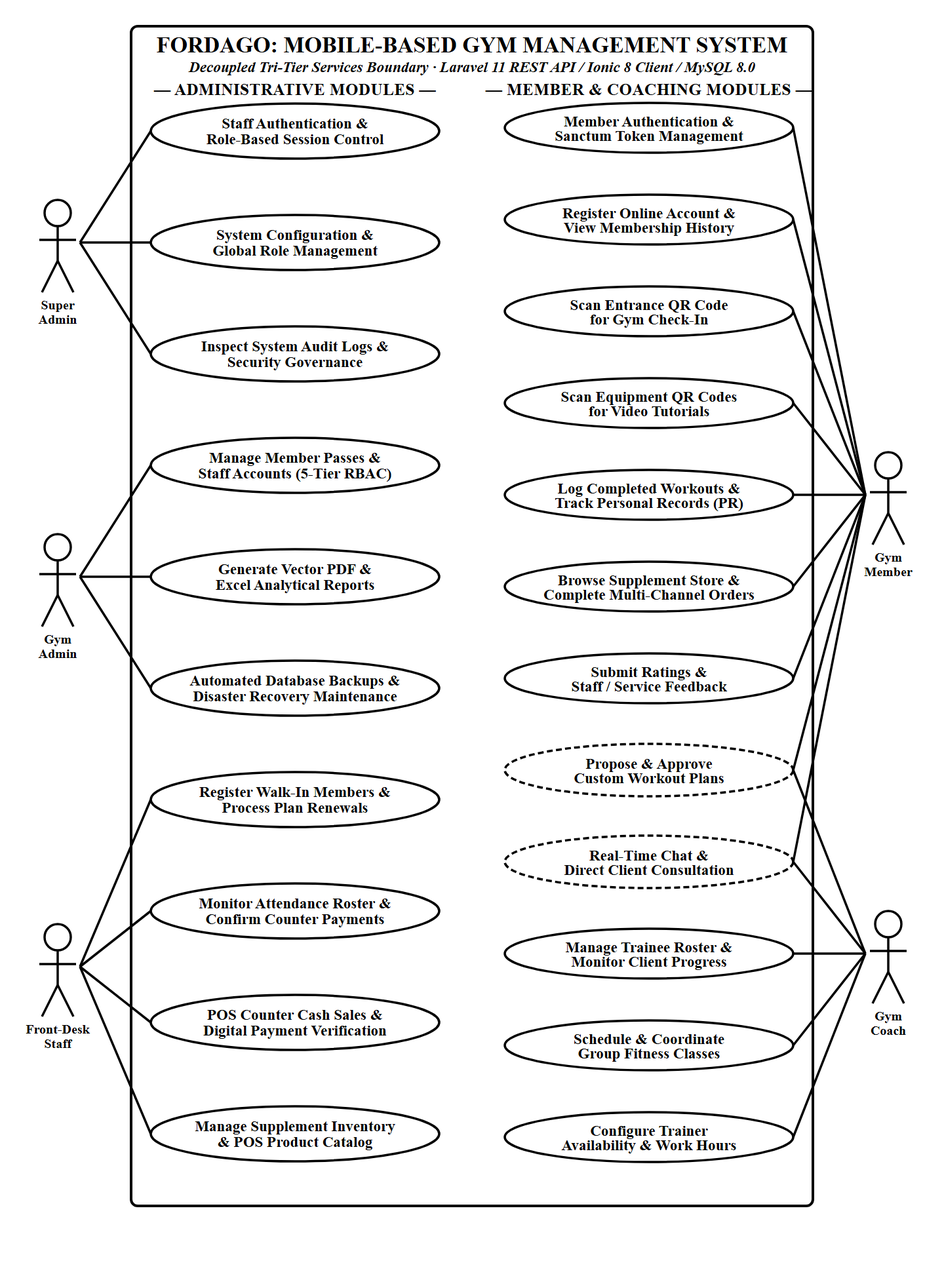
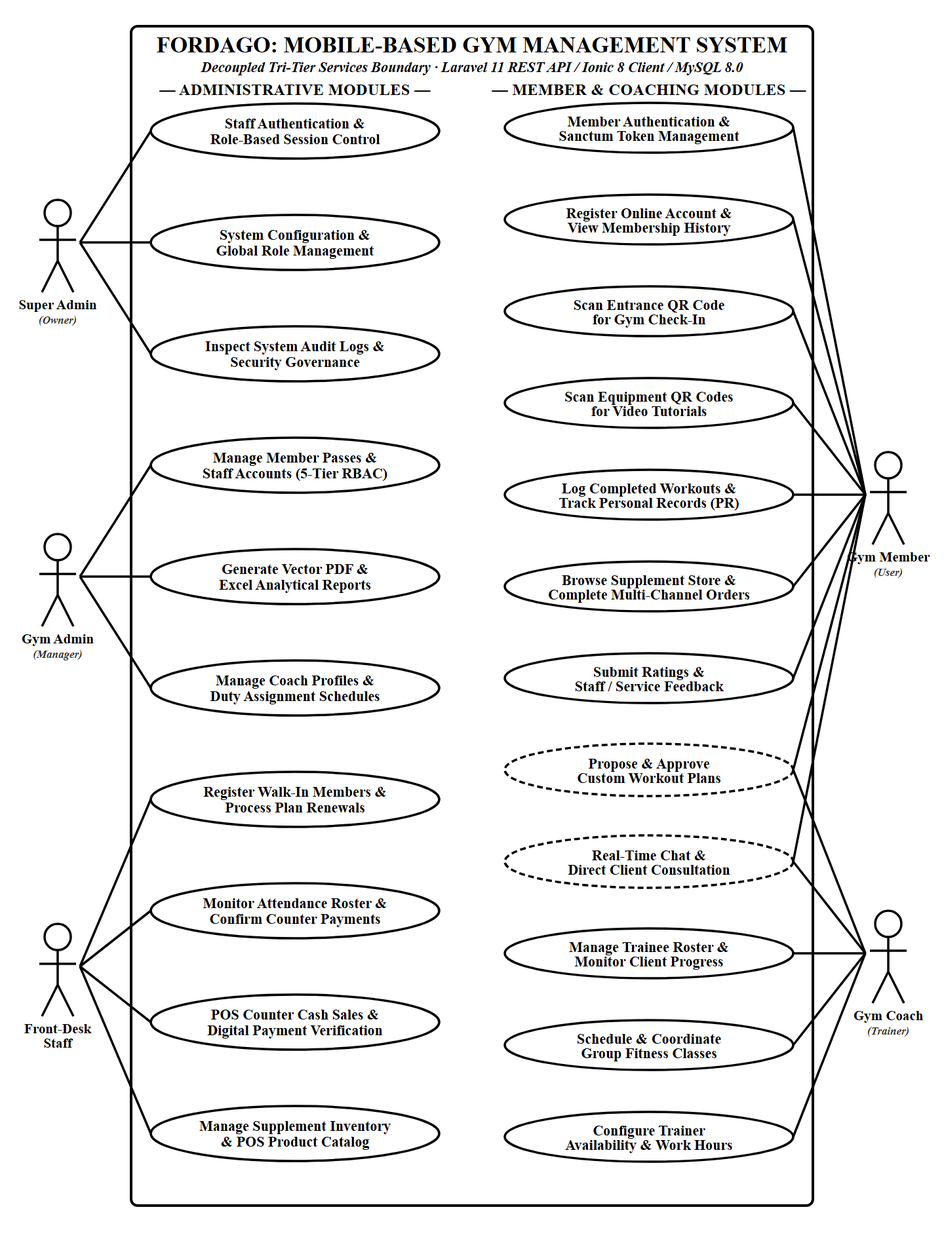
docs: detail 3-tier admin roles in Chapter 3, insert Table 1 RBAC matrix, and sync Figure 6 5-actor diagram

diff --git a/docs/chapters/chapter-3.md b/docs/chapters/chapter-3.md
@@ -70,33 +70,135 @@ MySQL 8.0 relational database management system enforcing strict referential int
 
 Role-Based Access Control and System Actors
 
-The FordaGO system implements a rigorous Role-Based Access Control (RBAC) architecture designed to enforce the principle of least privilege across all mobile and web interfaces. Access rights and protected API routes are strictly validated via Laravel Sanctum bearer tokens and role-checking middleware. The system classifies authenticated users into five distinct operational roles across three functional tiers:
+To maintain strict operational accountability, safeguard sensitive financial records, and prevent unauthorized privilege escalation, FordaGO implements a multi-tier Role-Based Access Control (RBAC) architecture grounded in the Principle of Least Privilege (PoLP) and Separation of Duties (SoD) in alignment with ISO/IEC 27001 data security guidelines. Rather than treating administrative personnel as a homogeneous group, the system implements defense-in-depth access governance across three architectural strata:
+1. **Database Persistence Layer:** Schema-level role partitioning is enforced by the `users.role` MySQL ENUM column (`'super_admin'`, `'admin'`, `'employee'`, `'coach'`, `'user'`), ensuring that role identities are immutable across foreign-key relationships.
+2. **Backend Application Layer:** All incoming HTTP requests require a cryptographically signed Laravel Sanctum bearer token. Every protected API route is wrapped in custom role-validation middleware (`EnsureUserHasRole`), which verifies the authenticated token's role against permissible parameters (`middleware('role:admin,super_admin')` vs `middleware('role:admin,super_admin,employee')`). Any unauthorized route access immediately terminates with an `HTTP 403 Forbidden` response and generates a security event in the audit trail.
+3. **Frontend Presentation Layer:** Angular standalone route guards (`adminGuard`, `managerGuard`, `memberGuard`, `authGuard`) and dynamic template structural directives (`*ngIf="!isEmployee"`, `*ngIf="canManageCoaches"`, `*ngIf="isSuperAdmin"`) dynamically adapt the interface, suppressing restricted navigation tabs, control actions, and management buttons.
 
-1. Super Administrator (super_admin):
+The system formally classifies all authenticated stakeholders into five (5) distinct operational roles across three (3) functional tiers:
 
-Represents the highest tier of administrative and governance authority. The Super Administrator possesses unrestricted system access, including managing Administrator and Employee credentials, monitoring cross-tier system activity, configuring system settings, and overseeing automated database backup routines
+### Administrative Governance Tier (Super Admin, Gym Admin, Front-Desk Staff)
 
-2. Gym Administrator (admin):
+To eliminate ambiguity during institutional defense and illustrate clear business governance, the three administrative roles are strictly differentiated by business ownership, managerial authority, and front-line operational duties:
 
-Functions as the primary operational manager for daily gym business. The Administrator manages member accounts and coach profiles, oversees supplement product catalog inventory, approves counter orders and validates cash payment receipts, publishes announcements, and generates dynamic financial and attendance reports. Administrators are restricted from altering system-level server configurations or deleting Super Administrator accounts.
+#### 1. Super Administrator (`super_admin` — Gym Proprietor / Executive Authority):
+* **Organizational Role & Business Domain:** Represents the executive gym proprietor and system licensee. The Super Administrator holds supreme, unrestricted authority over the digital infrastructure and strategic configuration of the enterprise.
+* **Distinct Capabilities & Responsibilities:**
+  * **Global Role Provisioning:** The sole authority capable of creating, assigning roles to, updating, or deleting Gym Administrator (`admin`) and Front-Desk Employee (`employee`) accounts.
+  * **System Configuration & Security Governance:** Manages global application settings, payment gateway integration credentials, and business operating rules.
+  * **Unrestricted Security Audit Inspection:** Full read-only oversight of the system audit trail (`activity_logs`), inspecting user IP addresses, session logins/logouts, failed authentication attempts, and data modification events.
+  * **Database Disaster Recovery:** Oversees automated database backup jobs, manual SQL snapshot downloads, and database migration routines.
+* **Operational Restrictions:** None. Possesses root executive authority across the entire platform.
 
-3. Front-Desk Employee (employee):
+#### 2. Gym Administrator (`admin` — Branch Manager / Operational Authority):
+* **Organizational Role & Business Domain:** Functions as the on-site general manager of AFFORDA Gym – Cabiao Branch, overseeing day-to-day business viability, staff supervision, and customer satisfaction without technical server access.
+* **Distinct Capabilities & Responsibilities:**
+  * **Coach Account Lifecycle Management:** Sole administrative manager authorized to onboard, verify credentials, edit rates, and manage schedules for Accredited Gym Coaches via `/api/admin/coaches`.
+  * **Executive Financial Analytics & Vector Reporting:** Full access to the Management Reporting Engine (`/reports/admin/*`), generating dynamic daily, weekly, monthly, and yearly vector PDF audit documents and Excel spreadsheets covering gross revenue, attendance turnover, supplement retail sales, and inventory valuation.
+  * **Member Account Overrides & Pass Approvals:** Authorizes offline counter cash payments, manually overrides membership plan status (e.g., activating 30-day Premium Passes upon receipt verification), and resolves customer disputes.
+  * **Retail Inventory Oversight:** Manages the supplement catalog, adjusting retail selling prices, entering wholesale supplier costs, and monitoring profit margins.
+  * **Staff Account Management:** Authorized to create and manage Front-Desk Employee (`employee`) accounts.
+* **Operational Restrictions & Boundaries:**
+  * Strictly **prohibited from creating, editing, or deleting Super Administrator accounts**.
+  * Strictly **restricted from accessing server-level environment configurations (`.env`)** or database disaster recovery routines.
+  * Strictly **prohibited from truncating or altering system security audit logs**.
 
-Receptionist and counter staff operating at the gym front desk. Employees are granted operational access to the digital optical QR camera scanner for entrance attendance check-in, walk-in member registration, pass validity lookup, and point-of-sale (POS) counter supplement sales. To safeguard financial and administrative integrity, Employees are strictly restricted from accessing financial revenue audit reports, viewing profit analytics, or modifying administrative staff accounts.
+#### 3. Front-Desk Employee (`employee` — Receptionist / Frontline Cashier):
+* **Organizational Role & Business Domain:** Frontline customer-facing staff stationed at the gym entrance reception desk, dedicated to rapid ingress validation, retail transactions, and walk-in customer intake.
+* **Distinct Capabilities & Responsibilities:**
+  * **Optical QR Entrance Check-In:** Operates the counter tablet kiosk camera scanner to validate entering member QR codes, instantly confirming active pass status and logging entry timestamps.
+  * **Walk-In Member Intake:** Ingests personal details of walk-in customers and creates standard regular member (`user`) accounts in the system.
+  * **Daily Pass Counter Payment Confirmation:** Receives cash payments for walk-in Daily Passes (₱40.00) and marks payments as confirmed in the attendance roster.
+  * **Point-of-Sale (POS) Retail Sales:** Processes over-the-counter cash sales of supplement beverages and fitness merchandise, triggering immediate database inventory deductions.
+  * **Equipment Defect Flagging:** Submits maintenance tags and operational condition reports for malfunctioning exercise equipment.
+* **Operational Restrictions & Least-Privilege Safeguards:**
+  * **Strictly Blocked from Management Reports (`HTTP 403 Forbidden`):** Protected by `managerGuard` in Angular and `role:admin,super_admin` in Laravel. Front-desk staff cannot view financial reports, revenue summaries, net profit figures, or high-level business analytics.
+  * **No Visibility of Supplier Costs or Profit Margins:** Can view retail prices for selling purposes but cannot inspect wholesale cost prices or margin calculations.
+  * **Cannot Manage Coaches:** The Coaches management tab is completely hidden and guarded against employees.
+  * **Cannot Manage Administrative Accounts:** Cannot create, modify, or delete any Employee, Admin, or Super Admin accounts.
+  * **No Access to Security Audit Logs:** Cannot inspect the system audit trail or activity history.
 
-4. Accredited Gym Coach (coach):
+---
 
-Certified fitness trainers operating within the Coach Studio workspace. Coaches manage their trainee client rosters, configure weekly working availability schedules, conduct real-time duplex chat via Laravel Reverb WebSockets, and dispatch structured in-chat Workout Plan Proposals.
+### Client Services Tier (Gym Coach and Gym Member)
 
-5. Gym Member (user):
+#### 4. Accredited Gym Coach (`coach` — Certified Fitness Trainer):
+Operates within the Coach Studio workspace. Coaches can view their active trainee client rosters, configure weekly working availability schedules, conduct real-time duplex chat via Laravel Reverb WebSockets, formulate customized 1-on-1 Workout Plan Proposals, and schedule group fitness classes. Coaches are restricted from all administrative, financial, and inventory management modules.
 
-End-users accessing the Member Mobile Portal. Members can monitor active pass duration, scan the official gym entrance QR code using their device camera for instant attendance check-in, scan equipment printed QR code labels for instructional movement tutorials, log personal records (PRs), construct weekly split routines, browse the supplement shop catalog, and consult with accredited coaches.
+#### 5. Gym Member (`user` — End-User Patron):
+End-users accessing the mobile client portal. Members can monitor active pass duration, scan the official gym entrance QR code using their device camera for instant attendance check-in, scan equipment printed QR code labels for instructional movement tutorials, log personal workout sets and Personal Record (PR) benchmarks, browse the supplement shop catalog, checkout cart orders, and consult with accredited coaches. Members are strictly confined to their own personal data records.
 
+---
+
+### Role-Based Access Control Privilege Matrix
+
+Table 1 formally defines the role-based capability boundaries, API route protections, and functional permissions across all five system roles, demonstrating the practical enforcement of least privilege:
 
 > **Table 1. User Role and Access Privilege Matrix of FordaGO**
 
-The operational boundaries, role-based capabilities, and interaction flows among these authenticated actors and system modules are formally modeled in the Use Case Diagram depicted in Figure 6. In this architecture, the Gym Member utilizes the mobile client application to scan the entrance QR code printed label for contactless attendance check-in, scan optical equipment printed QR code labels to access exercise tutorials and anatomical muscle guides, log personal workout sets and PR benchmarks, order supplements, and consult with assigned coaches. The Front-Desk Staff monitors live attendance rosters, confirms pending counter payments for walk-in daily passes, and manages point-of-sale transactions and supplement inventory.
+| Functional Module & Operational Capability | Backend Route & Middleware Guard | Super Admin (Owner) | Gym Admin (Manager) | Front-Desk Staff | Gym Coach (Trainer) | Gym Member (User) |
+| :--- | :--- | :---: | :---: | :---: | :---: | :---: |
+| **System Configuration & Role Provisioning** | | | | | | |
+| Create / Delete Super Admin Accounts | Server Console / Database Ledger | ✓ | ✗ | ✗ | ✗ | ✗ |
+| Create / Edit Gym Administrator Accounts | `POST/PUT /api/users` (Super Admin Only) | ✓ | ✗ | ✗ | ✗ | ✗ |
+| Create / Edit Front-Desk Employee Accounts | `POST/PUT /api/users` (`role:admin,super_admin`) | ✓ | ✓ | ✗ | ✗ | ✗ |
+| Register Walk-In Member (`user`) Accounts | `POST /api/users/create` (`role:admin,super_admin,employee`) | ✓ | ✓ | ✓ | ✗ | ✗ |
+| Self-Registration via Mobile App | `POST /api/auth/register` (Public) | ✗ | ✗ | ✗ | ✗ | ✓ |
+| **Security Audit & Disaster Recovery** | | | | | | |
+| Inspect Security Activity Logs (Audit Trail) | `GET /api/admin/activity-logs` (`role:admin,super_admin`) | ✓ | ✓ | ✗ | ✗ | ✗ |
+| Automated Database Backups & Recovery | Server Scheduled Jobs & CLI Backup Engine | ✓ | ✗ | ✗ | ✗ | ✗ |
+| 2-Factor Authentication & Biometric Login | `/api/auth/2fa/*`, `/api/auth/biometric/*` | ✓ | ✓ | ✓ | ✓ | ✓ |
+| **Gym Entrance & Attendance Monitoring** | | | | | | |
+| Optical Camera Scan of Entrance QR Code | `POST /api/attendance/checkin` (Member Camera) | ✗ | ✗ | ✗ | ✗ | ✓ |
+| Front-Desk Kiosk Scanner Check-In | `POST /api/attendance/checkin` (Kiosk Camera) | ✓ | ✓ | ✓ | ✗ | ✗ |
+| View Live Daily Attendance Roster | `GET /api/attendance/today` (`role:admin,super_admin,employee`) | ✓ | ✓ | ✓ | ✗ | ✗ |
+| Confirm Cash Payment for Daily Pass (₱40) | `PUT /api/attendance/{id}/confirm` (`role:admin,super_admin,employee`) | ✓ | ✓ | ✓ | ✗ | ✗ |
+| View Personal Attendance History | `GET /api/attendance/my` (Sanctum Auth) | ✗ | ✗ | ✗ | ✗ | ✓ |
+| **Membership & Pass Management** | | | | | | |
+| Approve / Upgrade 30-Day Premium Pass (₱500) | `PUT /api/users/{id}/membership` (`role:admin,super_admin,employee`) | ✓ | ✓ | ✓ | ✗ | ✗ |
+| Request Plan Upgrade / Renewal via App | `POST /api/users/membership/renew` (Sanctum Auth) | ✗ | ✗ | ✗ | ✗ | ✓ |
+| Delete User / Inactive Member Account | `DELETE /api/users/{id}` (RBAC Enforced) | ✓ (All) | ✓ (Staff/Member) | ✓ (Member Only) | ✗ | ✗ |
+| **Supplement Store & Inventory Management** | | | | | | |
+| View Retail Selling Price & Stock Level | `GET /api/inventory/products` (Sanctum Auth) | ✓ | ✓ | ✓ | ✓ | ✓ |
+| View Wholesale Cost Price & Profit Margins | `/api/reports/admin/inventory` (`role:admin,super_admin`) | ✓ | ✓ | ✗ | ✗ | ✗ |
+| POS Counter Cash Checkout & Stock Deduction | `POST /api/inventory/orders` (`role:admin,super_admin,employee`) | ✓ | ✓ | ✓ | ✗ | ✗ |
+| Online In-App Cart Checkout (GCash Demo) | `POST /api/inventory/cart/checkout` (Sanctum Auth) | ✗ | ✗ | ✗ | ✗ | ✓ |
+| Add / Edit / Delete Inventory Catalog Items | `POST/PUT/DELETE /api/inventory/products` | ✓ | ✓ | ✓ | ✗ | ✗ |
+| **Coaching & Fitness Program Management** | | | | | | |
+| Onboard, Edit, or Delete Coach Accounts | `/api/admin/coaches/*` (`role:admin,super_admin`) | ✓ | ✓ | ✗ | ✗ | ✗ |
+| Formulate 1-on-1 Workout Plan Proposals | `POST /api/proposals` (Coach Studio) | ✗ | ✗ | ✗ | ✓ | ✗ |
+| Accept / Decline Workout Plan Proposals | `POST /api/proposals/{id}/accept` (Sanctum Auth) | ✗ | ✗ | ✗ | ✗ | ✓ |
+| Real-Time Consultation Chat (WebSocket) | `/api/conversations/*`, Reverb Channels | ✗ | ✗ | ✗ | ✓ | ✓ |
+| Set Weekly Availability & Working Hours | `POST /api/coaches/availability` (Coach Auth) | ✗ | ✗ | ✗ | ✓ | ✗ |
+| **Equipment Guidance & Workout Tracking** | | | | | | |
+| Scan Machine QR Code for Video Tutorial | `POST /api/equipment/scan` (Sanctum Auth) | ✗ | ✗ | ✗ | ✗ | ✓ |
+| Log Sets, Reps, and Personal Records (PR) | `/api/workout-sessions/*`, `/api/personal-records/*` | ✗ | ✗ | ✗ | ✗ | ✓ |
+| Add / Edit / Delete Equipment Records | `/api/equipment/*` (`role:admin,super_admin,employee`) | ✓ | ✓ | ✓ | ✗ | ✗ |
+| **Reporting & Executive Analytics** | | | | | | |
+| Export Revenue Audit Reports (PDF/Excel) | `GET /api/reports/admin/transactions` (`role:admin,super_admin`) | ✓ | ✓ | ✗ | ✗ | ✗ |
+| Export Attendance Traffic Reports (PDF/Excel) | `GET /api/reports/admin/attendance` (`role:admin,super_admin`) | ✓ | ✓ | ✗ | ✗ | ✗ |
+| Export Product Sales Breakdown (PDF/Excel) | `GET /api/reports/admin/sales` (`role:admin,super_admin`) | ✓ | ✓ | ✗ | ✗ | ✗ |
+| View Personal Transaction History | `GET /api/reports/my-transactions` (Sanctum Auth) | ✗ | ✗ | ✗ | ✗ | ✓ |
 
+*Legend: `✓` = Full Authorized Privilege; `✗` = Restricted / Denied (`HTTP 403 Forbidden` / Route Guard Blocked).*
+
+---
+
+### Use Case Diagram Analysis
+
+The operational boundaries, role-based capabilities, and interaction flows among these five (5) authenticated actors and system modules are formally modeled in the Use Case Diagram depicted in Figure 6.
+
+To clearly exhibit **Separation of Duties** to the institutional evaluation committee, the Use Case Diagram is organized into two primary operational zones:
+1. **Administrative Modules (Left Column):** Depicts the specialized responsibilities of the three administrative actors:
+   * **Super Admin (Owner):** Directly associated with *Staff Authentication & Role-Based Session Control*, *System Configuration & Global Role Management*, and *Inspect System Audit Logs & Security Governance*.
+   * **Gym Admin (Manager):** Directly associated with *Manage Member Passes & Staff Accounts (5-Tier RBAC)*, *Generate Vector PDF & Excel Analytical Reports*, and *Manage Coach Profiles & Duty Assignment Schedules*.
+   * **Front-Desk Staff:** Directly associated with *Register Walk-In Members & Process Plan Renewals*, *Monitor Attendance Roster & Confirm Counter Payments*, *POS Counter Cash Sales & Digital Payment Verification*, and *Manage Supplement Inventory & POS Product Catalog*.
+2. **Member & Coaching Modules (Right Column):** Depicts the interactions of the client-facing actors:
+   * **Gym Member (User):** Interfaces with *Member Authentication & Sanctum Token Management*, *Register Online Account & View Membership History*, *Scan Entrance QR Code for Gym Check-In*, *Scan Equipment QR Codes for Video Tutorials*, *Log Completed Workouts & Track Personal Records (PR)*, *Browse Supplement Store & Complete Multi-Channel Orders*, and *Submit Ratings & Staff / Service Feedback*.
+   * **Gym Coach (Trainer):** Interfaces with *Manage Trainee Roster & Monitor Client Progress*, *Schedule & Coordinate Group Fitness Classes*, and *Configure Trainer Availability & Work Hours*.
+   * **Shared Interactive Capabilities:** *Propose & Approve Custom Workout Plans* and *Real-Time Chat & Direct Client Consultation* are modeled as shared, bi-directional collaborative use cases linking the Gym Coach and Gym Member across real-time WebSocket communication channels.
+
+*Architectural Modeling Note on Diagram Harmonization:* In the high-level Context Diagram Level 0 (Figure 7), the administrative domain is modeled as a consolidated external boundary entity labeled `Gym Administrator / Front-Desk Staff` to reflect the singular physical reception environment of AFFORDA Gym – Cabiao Branch. In contrast, the UML Use Case Diagram (Figure 6) and the Access Privilege Matrix (Table 1) intentionally decompose this entity into **Super Administrator**, **Gym Administrator**, and **Front-Desk Staff** to formally specify the discrete behavioral boundaries, route permissions, and least-privilege constraints governing software execution.
 
 > **Figure 6. Use Case Diagram of FordaGO**
 

diff --git a/docs/figures/canva_export/CANVA_FIGURES_AND_ERD_GUIDE.md b/docs/figures/canva_export/CANVA_FIGURES_AND_ERD_GUIDE.md
@@ -240,33 +240,42 @@ Lahat ng malilinis at walang redundant title banner na images ay nakatabi na sa 
 
 ### Figure 6: Use Case Diagram
 * **Caption sa Papel:** `Figure 6. Use Case Diagram of FordaGO`
-* **Layout:** System Boundary Box na may tatak na `FordaGO System`. Sa kaliwa ay 2 Aktor (Member, Coach), sa kanan ay 1 Aktor (Staff/Admin). Sa loob ay 15 Ovals (Use Cases).
+* **Layout:** Malaking System Boundary Box (`FordaGO: Mobile-Based Gym Management System`) na may dalawang column ng modules: `ADMINISTRATIVE MODULES` sa kaliwa at `MEMBER & COACHING MODULES` sa kanan. May limang (5) magkakahiwalay na Aktor upang maipakita nang malinaw sa mga panelist ang **Separation of Duties** at **Role-Based Access Control (RBAC)**.
+* **Master Image:** `docs/figures/canva_export/06_Figure_6_Use_Case_Diagram.png` (HD Render mula sa `docs/figures/06_use_case_diagram_hd.html`).
 
-#### Mga Aktor:
-1. **Gym Member** (Mobile App User) - Kaliwa
-2. **Gym Coach** (Coach App User) - Kaliwa
-3. **Staff / Admin** (Tablet Kiosk & Web) - Kanan
+#### Limang (5) Aktor ng FordaGO:
+1. **Super Admin (Owner)** - Itaas-Kaliwa: Pinakamataas na ehekutibo. Hawak ang system configs, global role provisioning (paglikha/pagtanggal ng Admin at Staff accounts), at pagsusuri ng system security audit logs (`activity_logs`).
+2. **Gym Admin (Manager)** - Gitna-Kaliwa: Tagapamahala ng pang-araw-araw na operasyon. Hawak ang member pass approvals, accredited coach account onboarding, at dynamic vector PDF & Excel financial/sales/attendance analytics reports.
+3. **Front-Desk Staff** - Ibaba-Kaliwa: Receptionist at counter cashier sa bukana ng gym. Hawak ang optical QR scanner check-in validation, walk-in member registration, counter cash payment confirmation, at Point-of-Sale (POS) supplement sales. Mahigpit na **restricted (HTTP 403)** sa financial reports, coach deletion, at audit logs.
+4. **Gym Member (User)** - Gitna-Kanan: Regular na parokyano sa mobile app. Nag-i-scan ng entrance QR para sa attendance, nag-i-scan ng equipment QR para sa exercise video guides, nagla-log ng workouts/PRs, nag-o-order ng supplements, at nagpapadala ng feedback.
+5. **Gym Coach (Trainer)** - Ibaba-Kanan: Sertipikadong fitness trainer sa Coach Studio. Nag-a-avail ng 1-on-1 workout plan proposals sa chat, namamahala ng trainee progress roster, nagse-set ng weekly availability schedule, at nagha-handle ng group fitness classes.
 
-#### 15 Use Cases (Mga Oval):
-* **Pangkalahatan:**
-  * `Log In & Authenticate` (Account & Password) - Nakakonekta ang lahat ng 3 aktor
-* **Para kay Gym Member:**
-  * `Scan QR for Attendance` (Scan Counter QR at Front Desk)
-  * `Scan Equipment QR` (View Exercise Guides & Videos)
-  * `Log Workouts & PRs` (Track Exercises & Benchmarks)
-  * `Browse & Order Products` (Store Items & GCash Demo)
-  * `1-on-1 Real-Time Chat` (Direct Coach-Client Messages) - Nakakonekta kay Member at Coach
-* **Para kay Gym Coach:**
-  * `Propose Workout Plans` (Custom Routines for Trainees)
-  * `Monitor Trainee Progress` (View Workout Logs & History)
-  * `Set Schedule & Profile` (Availability & Specialization)
-* **Para kay Staff / Admin:**
-  * `Verify Attendance & Cash` (Check-In Log & Cash Confirmation)
-  * `Register Members & Plans` (New Accounts & Renewals)
-  * `Manage Equipment & QR` (Equipment Details & Video Links)
-  * `Manage Store Inventory` (Stock In/Out & Cash Sales)
-  * `Generate System Reports` (Export Attendance & Sales Logs)
-  * `Manage User Accounts` (Roles: Admin, Staff, Coach, Member)
+#### 22 Core Use Cases (Mga Oval):
+* **Administrative Modules (Kaliwa):**
+  * `Staff Authentication & Role-Based Session Control` (Super Admin)
+  * `System Configuration & Global Role Management` (Super Admin)
+  * `Inspect System Audit Logs & Security Governance` (Super Admin)
+  * `Manage Member Passes & Staff Accounts (5-Tier RBAC)` (Gym Admin)
+  * `Generate Vector PDF & Excel Analytical Reports` (Gym Admin)
+  * `Manage Coach Profiles & Duty Assignment Schedules` (Gym Admin)
+  * `Register Walk-In Members & Process Plan Renewals` (Front-Desk Staff)
+  * `Monitor Attendance Roster & Confirm Counter Payments` (Front-Desk Staff)
+  * `POS Counter Cash Sales & Digital Payment Verification` (Front-Desk Staff)
+  * `Manage Supplement Inventory & POS Product Catalog` (Front-Desk Staff)
+* **Member & Coaching Modules (Kanan):**
+  * `Member Authentication & Sanctum Token Management` (Gym Member)
+  * `Register Online Account & View Membership History` (Gym Member)
+  * `Scan Entrance QR Code for Gym Check-In` (Gym Member)
+  * `Scan Equipment QR Codes for Video Tutorials` (Gym Member)
+  * `Log Completed Workouts & Track Personal Records (PR)` (Gym Member)
+  * `Browse Supplement Store & Complete Multi-Channel Orders` (Gym Member)
+  * `Submit Ratings & Staff / Service Feedback` (Gym Member)
+  * `Propose & Approve Custom Workout Plans` (Shared: Coach & Member)
+  * `Real-Time Chat & Direct Client Consultation` (Shared: Coach & Member)
+  * `Manage Trainee Roster & Monitor Client Progress` (Gym Coach)
+  * `Schedule & Coordinate Group Fitness Classes` (Gym Coach)
+  * `Configure Trainer Availability & Work Hours` (Gym Coach)
+
 
 ---
 

diff --git a/docs/defense/PANELIST_TOP_20_DEFENSE_QUESTIONS.md b/docs/defense/PANELIST_TOP_20_DEFENSE_QUESTIONS.md
@@ -136,16 +136,21 @@ Gusto marinig ng panel ang compliance niyo sa batas, consent handling, data stor
 ---
 
 ### ❓ Question 7:
-> *"What measures prevent a user from tampering with their role or membership status via Postman or browser developer tools (e.g. changing role to 'admin' or status to 'active' without paying)?"*
+> *"What measures prevent a user from tampering with their role or membership status via Postman or browser developer tools, and why do you have three separate administrative roles (Super Admin, Gym Admin, Front-Desk Staff)?"*
 
 #### 🎯 Panelist Intent:
-Technical vulnerability check (Broken Access Control / Insecure Direct Object References - IDOR).
+Technical vulnerability check (Broken Access Control / Insecure Direct Object References - IDOR) and organizational Separation of Duties (SoD / RBAC architecture).
 
 #### 💡 Ideal Defense Answer:
-> *"We enforce **Strict Server-Side Authorization via Laravel Sanctum & Custom Middleware**, following the Zero Trust principle:*
-> 1. ***Mass Assignment Protection:** In our Eloquent Models (`User.php`), privileged attributes such as `role`, `membership_status`, and `membership_expiry` are guarded against mass assignment.*
-> 2. ***Route Middleware Enforcement:** Every administrative endpoint is wrapped in `role:admin,super_admin,employee` middleware. Even if an attacker injects a modified JSON payload with `"role": "admin"` or `"membership_status": "active"` via `PUT /api/users/{id}`, the backend controller explicitly ignores or rejects unprivileged attribute mutations.*
-> 3. ***Strict Dual Validation:** Front-end validations are mirrored by server-side regular expressions (e.g., prohibiting digits in names, enforcing 11-digit `09` phone numbers). Client-side manipulation cannot bypass server logic."*
+> *"We enforce **Strict Server-Side Authorization via Laravel Sanctum & Custom Middleware**, implementing the Principle of Least Privilege (PoLP) and Separation of Duties (SoD):*
+> 1. ***Three-Tier Administrative Separation:**
+>    - **Super Admin (Proprietor / Owner):** Supreme executive authority. The only role authorized to create/delete Gym Admin accounts, configure system server variables, inspect complete security audit trails (`activity_logs`), and oversee automated database backups.
+>    - **Gym Admin (Branch Manager):** Day-to-day managerial oversight. Manages member passes, onboards and assigns Accredited Coaches (`/api/admin/coaches`), and exports executive financial revenue reports (Vector PDF & Excel). Strictly prohibited from altering server configs, deleting Super Admin, or tampering with audit logs.
+>    - **Front-Desk Staff (Receptionist / Cashier):** Frontline desk operations. Operates the optical QR camera scanner for entrance check-in, walk-in member registration, and POS counter supplement cash sales. Strictly blocked (`HTTP 403 Forbidden` via `role:admin,super_admin` and Angular `managerGuard`) from viewing financial reports, wholesale supplier costs, coach management, or audit logs.*
+> 2. ***Mass Assignment Protection:** In our Eloquent Models (`User.php`), privileged attributes such as `role`, `membership_status`, and `membership_expiry` are guarded against mass assignment.*
+> 3. ***Route Middleware Enforcement:** Every administrative endpoint is wrapped in `role:admin,super_admin,employee` or `role:admin,super_admin` middleware. Even if an attacker injects a modified JSON payload with `"role": "admin"` or `"membership_status": "active"` via `PUT /api/users/{id}`, the backend controller explicitly ignores or rejects unprivileged attribute mutations.*
+> 4. ***Strict Dual Validation:** Front-end validations are mirrored by server-side regular expressions (e.g., prohibiting digits in names, enforcing 11-digit `09` phone numbers). Client-side manipulation cannot bypass server logic."*
+
 
 ---
 

diff --git a/docs/chapters/README.md b/docs/chapters/README.md
@@ -35,7 +35,7 @@ This directory contains the complete academic capstone manuscript, available in 
 3. **Figure 3:** Map of the Municipality of Cabiao, Nueva Ecija (Research Locale)
 4. **Figure 4:** Gantt Chart of Activities for FordaGO System Development (January–October 2026 Timeline & Final Defense)
 5. **Figure 5:** FordaGO Full-Stack Architectural Framework (4-Tier: Presentation, Cloud VPS Channel, Application, MySQL Persistence)
-6. **Figure 6:** Use Case Diagram of FordaGO (Actors: Gym Member, Gym Coach, Staff/Admin; 15 Core Use Cases)
+6. **Figure 6:** Use Case Diagram of FordaGO (5 Distinct Actors: Super Admin [Owner], Gym Admin [Manager], Front-Desk Staff, Gym Member, Gym Coach; 22 Core Use Cases enforcing Separation of Duties & RBAC)
 7. **Figure 7:** Context Diagram Level 0 of FordaGO (Process 0 and 3 External Entities matching manuscript text)
 8. **Figure 8:** Data Flow Diagram (DFD) Level 1 of FordaGO (7 Core Operational Subprocesses & 7 Data Stores)
 9. **Figure 9:** Entity-Relationship Diagram (ERD) of FordaGO (8 Normalized Relational Tables & Referential Foreign Keys)
